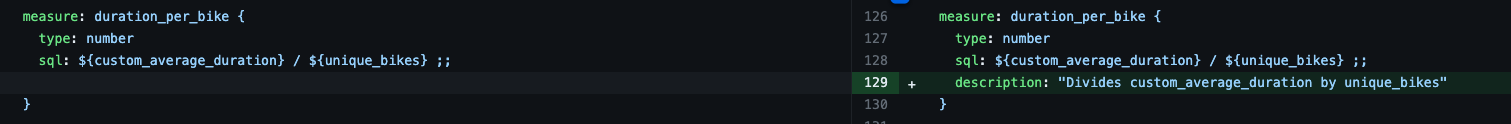
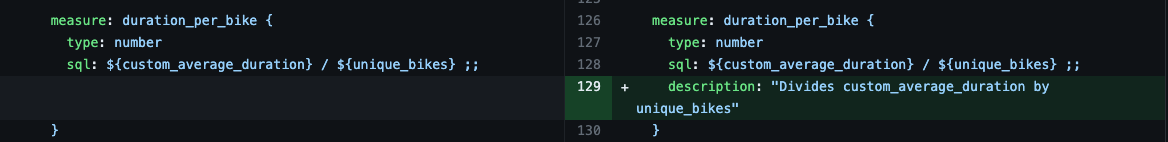
adding in read me

diff --git a/README.md b/README.md
@@ -1,0 +1,37 @@
+# Overview
+
+## Capstone Concept
+- Looker contains the [Looker Data Dictionary](https://cloud.google.com/looker/docs/using-looker-data-dictionary) which is a powerful but often under-utilized tool, which "...provides a dedicated, centralized interface for searching through all Looker fields and descriptions"
+- The idea of the capstone is to help automate the slow and time consuming process of writiing individual descriptions for the hundred to thousands of individual measures found within LookML files
+
+
+## Technical Details:
+- The underlying data is from the [NYC Citi Bike Trips Dataset](https://pantheon.corp.google.com/marketplace/details/city-of-new-york/nyc-citi-bike)
+- The LookML is from the following public [repository](https://github.com/ryanrezvani/LookLLML_descriptor)
+- The model was given the following context:
+  - "Write a Python regex to grab all examples of the text between the word "measure:" and the closing "}" character and add a description: "
+- ~15 examples were used to train the model
+
+# **Outputs: Compare Before/After**
+
+## Examples of descriptions added
+
+### **Avg. Trip Duration**
+![Avg Trip Duration](/Screenshots/average_duration.png)
+
+### **Unique Bikes**
+![unique_bikes](/Screenshots/unique_bikes.png)
+
+### **Unique Bikes: Filtered**
+![unique_bikes_last_7](/Screenshots/unique_bike_last_7.png)
+
+### **Trip Duration per Bike**
+![duration_per_bike](/Screenshots/duration_per_bike.png)
+
+### **Count**
+![count](/Screenshots/count.png)
+
+## Output within the Data Dictionary
+
+### **Count**
+![dd](/Screenshots/data_dictionary.png)
